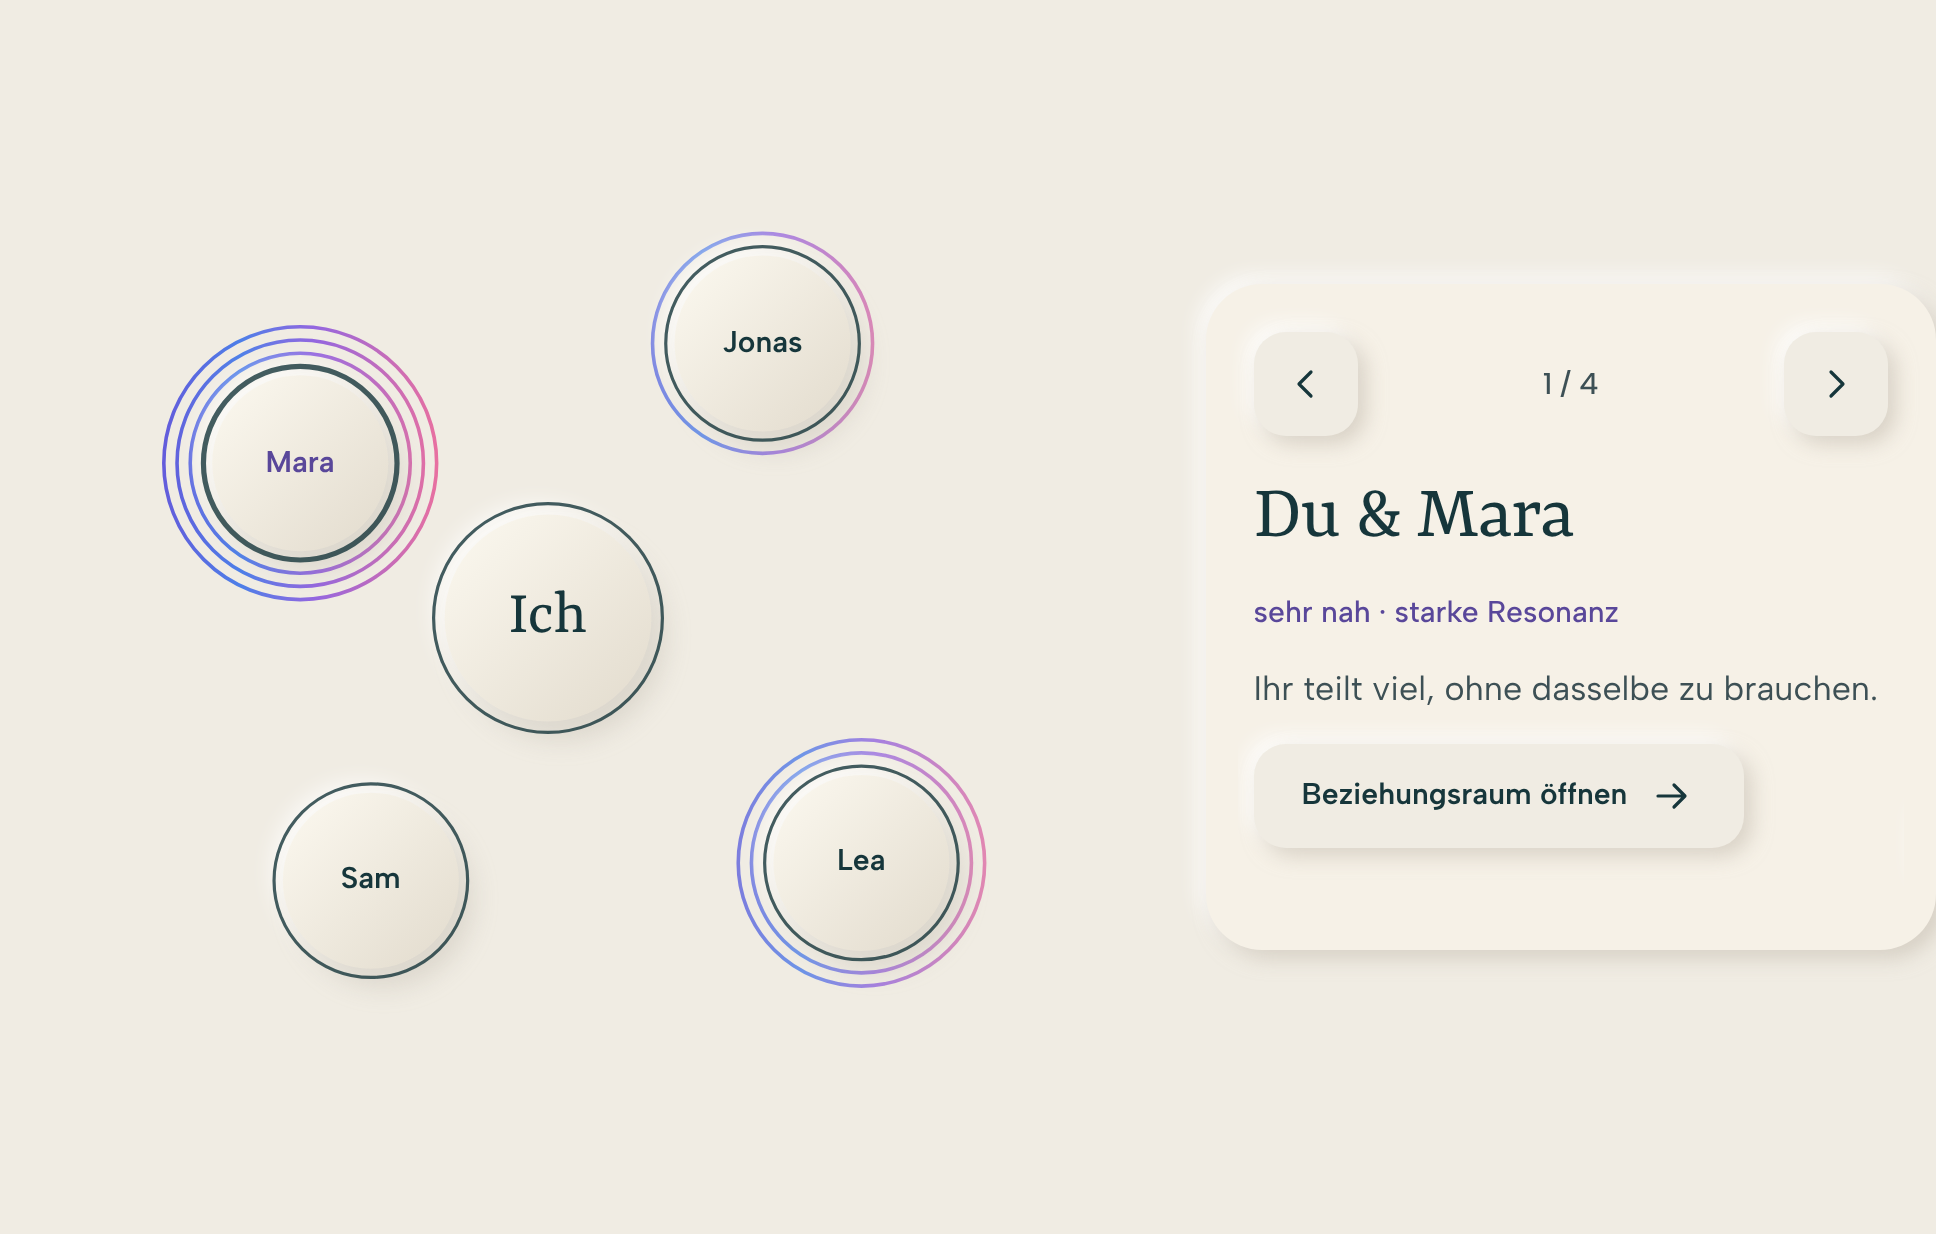
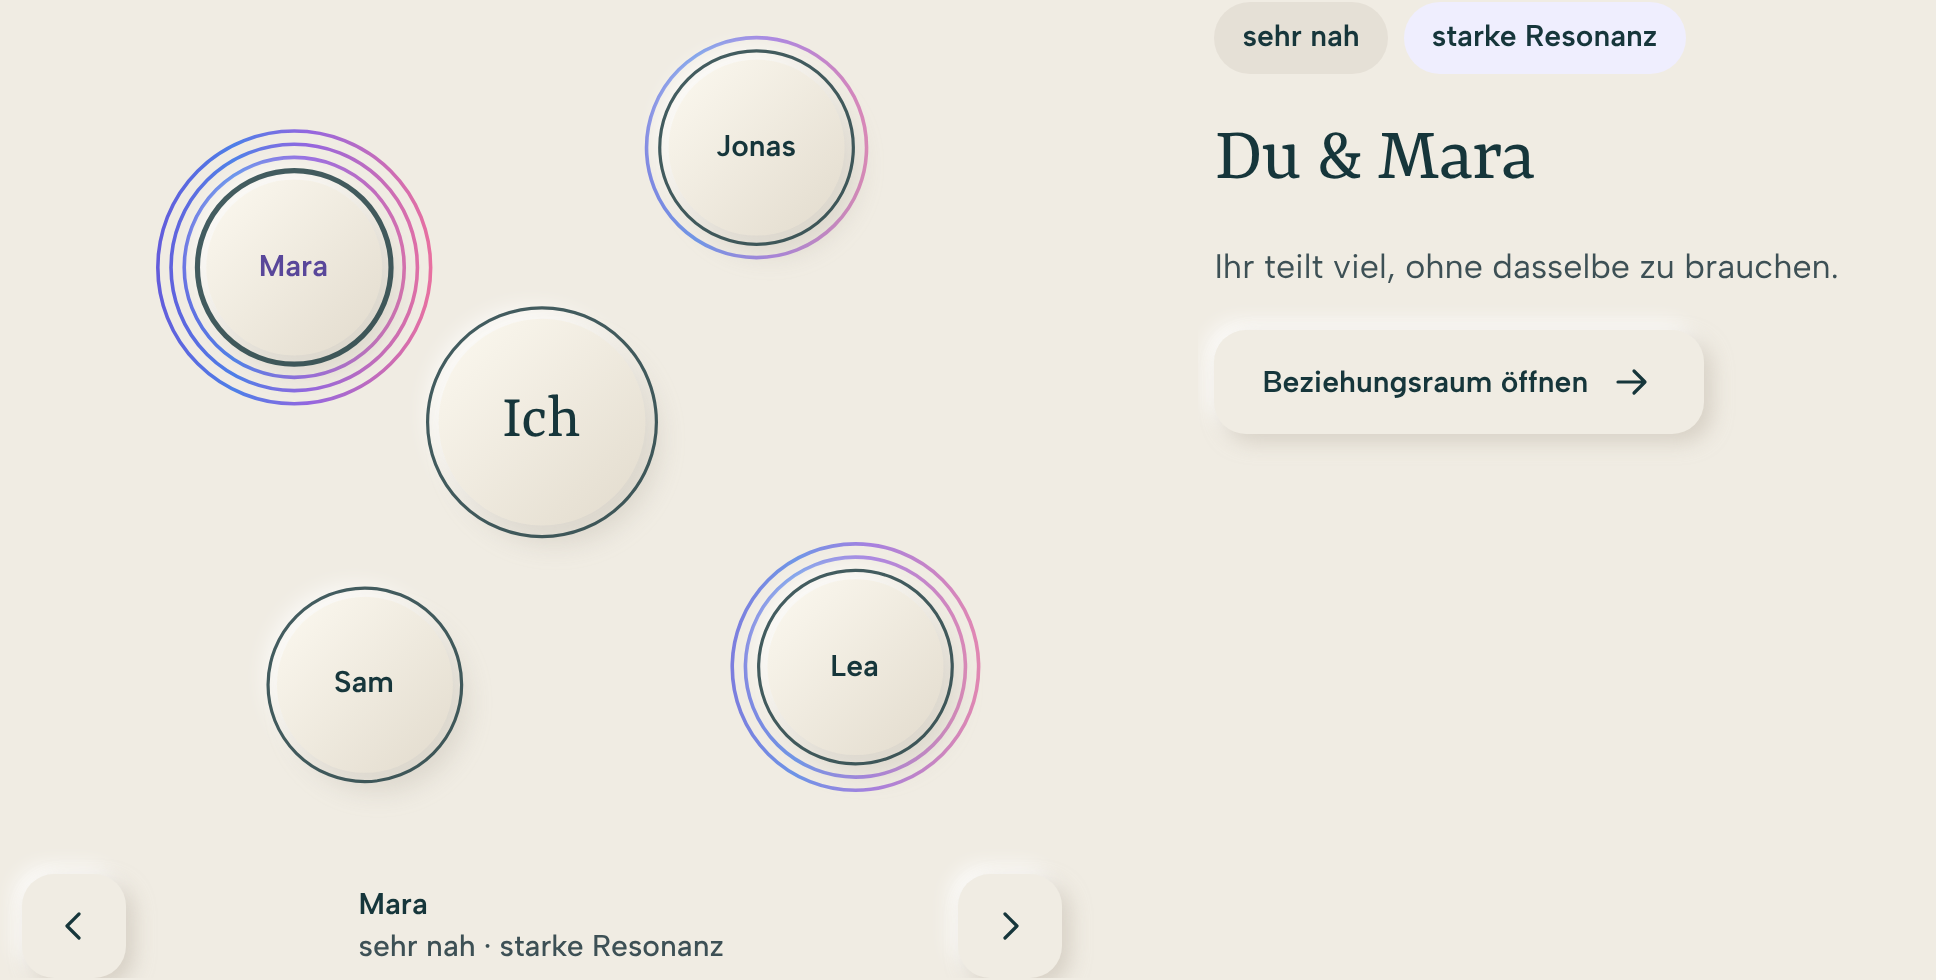
Umfeld wie Ich: Pfeile mit Name unter dem Bild, Pillen, früher sichtbar
Die Karte entfällt. Navigationszeile und Lesebereich folgen dem
Resonanzrad, Nähe und Resonanz stehen als Pillen. Das Bild ist senkrecht
auf seinen Inhalt beschnitten, der Auftritt zeigt die Bedienung früher.
Entwurf, noch ohne neue Version.

Claude-Session: https://claude.ai/code/session_01GcUU3Qg4dj9oPnZ4iDHoTB

diff --git a/components/umfeld/umfeld.js b/components/umfeld/umfeld.js
@@ -5,9 +5,14 @@
    die Resonanz (wie im Beziehungsraum), keine Linie führt zur Mitte. Ohne
    aktive Resonanz bleibt nur der Abstand. Der Freiraum fehlt, das Umfeld
    kennt den Wert nicht.
-   Bedienung wie beim Resonanzrad: Die Kreise im Bild sind Knöpfe. Eine Karte
-   zeigt den gewählten Menschen, mit Pfeilen und zum Ziehen (Finger oder Maus),
-   Kreis und Karte bleiben im Gleichschritt. Eine Liste gibt es nicht.
+   Aufbau und Bedienung wie beim Resonanzrad (Screen „Ich“): Bild, darunter
+   eine Zeile mit Pfeilen und dem gewählten Menschen, darunter der Lesebereich
+   ohne Karte. Dort stehen Nähe und Resonanz als Pillen, die Überschrift, die
+   Notiz und der Knopf. Die Kreise im Bild sind Knöpfe, der Lesebereich lässt
+   sich ziehen (Finger oder Maus), Kreis, Zeile und Lesebereich bleiben im
+   Gleichschritt. Eine Liste gibt es nicht.
+   Das Bild ist senkrecht auf seinen Inhalt beschnitten (Rand 16 Einheiten),
+   damit Zeile und Lesebereich früh im Sichtfeld stehen.
 
    Mobile-first: Unter 560 px Breite gilt ein Hochformat mit grösseren
    Kreisen, damit Namen in echten 15 px in ihren Kreis passen. Wird das
@@ -30,11 +35,9 @@
     { name: 'Lea', angle: 128, proximity: 24, resonance: 64, note: 'Weit weg im Alltag, trotzdem spürbar verbunden.' },
     { name: 'Sam', angle: 214, proximity: 70, resonance: 0, note: 'Oft nah, im Moment ohne aktive Resonanz.' }
   ];
-  function words(p) {
-    var near = p.proximity < 34 ? 'weit' : p.proximity < 75 ? 'nah' : 'sehr nah';
-    var res = p.resonance === 0 ? 'keine Resonanz' : p.resonance < 40 ? 'leise Resonanz' : p.resonance < 80 ? 'spürbare Resonanz' : 'starke Resonanz';
-    return near + ' · ' + res;
-  }
+  function near(p) { return p.proximity < 34 ? 'weit' : p.proximity < 75 ? 'nah' : 'sehr nah'; }
+  function res(p) { return p.resonance === 0 ? 'keine Resonanz' : p.resonance < 40 ? 'leise Resonanz' : p.resonance < 80 ? 'spürbare Resonanz' : 'starke Resonanz'; }
+  function words(p) { return near(p) + ' · ' + res(p); }
   function el(name, attrs) { var n = document.createElementNS(NS, name); for (var k in attrs) n.setAttribute(k, attrs[k]); return n; }
 
   var count = 0;
@@ -44,18 +47,20 @@
     root.classList.add('umfeld');
     var ARROW_PREV = '<svg class="icon" viewBox="0 0 24 24" aria-hidden="true"><path d="M14.5 6l-6 6 6 6"/></svg>';
     var ARROW_NEXT = '<svg class="icon" viewBox="0 0 24 24" aria-hidden="true"><path d="M9.5 6l6 6-6 6"/></svg>';
-    root.innerHTML = '<div class="umfeld__stage"></div>' +
-      '<div class="umfeld__card" role="group" aria-roledescription="Karussell" aria-label="Menschen in deinem Umfeld">' +
+    root.innerHTML = '<div class="umfeld__stage">' +
+        '<div class="umfeld__scene"></div>' +
         '<div class="umfeld__nav">' +
           '<button class="button button--secondary button--icon glow-edge" type="button" data-nav="prev" aria-label="Vorheriger Mensch">' + ARROW_PREV + '</button>' +
-          '<p class="umfeld__count" aria-hidden="true"></p>' +
+          '<p class="umfeld__current" aria-hidden="true"></p>' +
           '<button class="button button--secondary button--icon glow-edge" type="button" data-nav="next" aria-label="Nächster Mensch">' + ARROW_NEXT + '</button>' +
         '</div>' +
+      '</div>' +
+      '<div class="umfeld__reader" role="group" aria-roledescription="Karussell" aria-label="Menschen in deinem Umfeld">' +
         '<div class="umfeld__slides"></div>' +
         '<p class="umfeld__live" aria-live="polite"></p>' +
       '</div>';
-    var stage = root.querySelector('.umfeld__stage'), card = root.querySelector('.umfeld__card'), slider = root.querySelector('.umfeld__slides');
-    var count_ = root.querySelector('.umfeld__count'), live = root.querySelector('.umfeld__live');
+    var stage = root.querySelector('.umfeld__scene'), slider = root.querySelector('.umfeld__slides');
+    var current = root.querySelector('.umfeld__current'), live = root.querySelector('.umfeld__live');
     var selected = 0, layoutName = '', api = { parts: {} };
     var calm = function () { return window.matchMedia && matchMedia('(prefers-reduced-motion: reduce)').matches; };
 
@@ -63,18 +68,20 @@
       var href = link + '?person=' + encodeURIComponent(p.name) + '&proximity=' + p.proximity + '&resonance=' + p.resonance;
       var s = document.createElement('div');
       s.className = 'umfeld__slide'; s.setAttribute('role', 'group'); s.setAttribute('aria-roledescription', 'Folie');
-      s.innerHTML = '<' + heading + ' class="t-title">Du &amp; ' + p.name + '</' + heading + '>' +
-        '<p class="umfeld__state t-label">' + words(p) + '</p><p class="secondary">' + p.note + '</p>' +
+      s.innerHTML = '<div class="umfeld__pills"><span class="element-chip umfeld__pill">' + near(p) + '</span>' +
+        '<span class="element-chip area umfeld__pill">' + res(p) + '</span></div>' +
+        '<' + heading + ' class="umfeld__title t-title">Du &amp; ' + p.name + '</' + heading + '>' +
+        '<p class="secondary">' + p.note + '</p>' +
         '<a class="button button--secondary glow-edge" href="' + href + '">Beziehungsraum öffnen <svg class="icon" viewBox="0 0 24 24" aria-hidden="true"><path d="M5 12h13M13 6.5l5.5 5.5-5.5 5.5"/></svg></a>';
       slider.appendChild(s);
       return s;
     });
     slides.forEach(function (s, i) { s.setAttribute('aria-label', (i + 1) + ' von ' + PEOPLE.length); });
-    card.querySelectorAll('[data-nav]').forEach(function (b) {
+    root.querySelectorAll('[data-nav]').forEach(function (b) {
       b.addEventListener('click', function () { select(selected + (b.getAttribute('data-nav') === 'next' ? 1 : -1)); });
     });
 
-    /* Abstand von Slide zu Slide (Breite eines Slides, ohne Kartenrand). */
+    /* Abstand von Slide zu Slide (Breite eines Slides). */
     function pitch() { return slides[0].offsetWidth || slider.clientWidth; }
     function slideTo(i, smooth) {
       var left = i * pitch();
@@ -125,7 +132,17 @@
     function draw(name) {
       var L = LAYOUTS[name];
       layoutName = name;
-      stage.innerHTML = '<svg class="umfeld__svg" viewBox="0 0 ' + L.W + ' ' + L.H + '" aria-hidden="true"><defs></defs></svg>';
+      /* Lage aller Menschen zuerst: daraus wird das Bild senkrecht auf den Inhalt beschnitten. */
+      var geo = PEOPLE.map(function (p) {
+        var dist = L.base + (100 - p.proximity) * L.k, a = p.angle * Math.PI / 180;
+        var level = p.resonance === 0 ? 0 : p.resonance < 40 ? 1 : p.resonance < 80 ? 2 : 3;
+        return { dist: dist, level: level, x: L.CX + dist * Math.sin(a), y: L.CY - dist * Math.cos(a) };
+      });
+      var minY = L.CY - L.ME, maxY = L.CY + L.ME;
+      geo.forEach(function (g) { var r = L.R + L.ring * g.level; minY = Math.min(minY, g.y - r); maxY = Math.max(maxY, g.y + r); });
+      var vbY = Math.floor(minY - 16), vbH = Math.ceil(maxY + 16) - vbY;
+      var fy = function (y) { return (y - vbY) / vbH * 100; };
+      stage.innerHTML = '<svg class="umfeld__svg" viewBox="0 ' + vbY + ' ' + L.W + ' ' + vbH + '" aria-hidden="true"><defs></defs></svg>';
       stage.dataset.layout = name;
       var svg = stage.firstChild, defs = svg.firstChild;
       var relief = el('linearGradient', { id: uid + '-relief', x1: '0%', y1: '0%', x2: '100%', y2: '100%' });
@@ -139,15 +156,15 @@
       /* Name im Bild („Ich“, ruht): eingemittet über `translate`. */
       var label = function (text, x, y, cls) {
         var s = document.createElement('span'); s.className = 'umfeld__name' + (cls ? ' ' + cls : ''); s.textContent = text;
-        s.style.left = x / L.W * 100 + '%'; s.style.top = y / L.H * 100 + '%'; stage.appendChild(s); return s;
+        s.style.left = x / L.W * 100 + '%'; s.style.top = fy(y) + '%'; stage.appendChild(s); return s;
       };
       /* Mensch: Knopf über dem ganzen Kreis. Er sitzt über left/top und Grösse genau auf dem Kreis, ohne Verschiebung:
          GSAP schreibt `translate` beim ersten Tween in `transform` um und verlöre die Einmittung. */
       var pick = function (p, i, x, y) {
         var b = document.createElement('button'); b.type = 'button'; b.className = 'umfeld__name umfeld__pick'; b.textContent = p.name;
         b.setAttribute('aria-pressed', 'false'); b.setAttribute('aria-label', p.name + ', ' + words(p));
-        b.style.left = (x - L.R) / L.W * 100 + '%'; b.style.top = (y - L.R) / L.H * 100 + '%';
-        b.style.width = 2 * L.R / L.W * 100 + '%'; b.style.height = 2 * L.R / L.H * 100 + '%';
+        b.style.left = (x - L.R) / L.W * 100 + '%'; b.style.top = fy(y - L.R) + '%';
+        b.style.width = 2 * L.R / L.W * 100 + '%'; b.style.height = 2 * L.R / vbH * 100 + '%';
         b.addEventListener('click', function () { select(i); });
         b.addEventListener('keydown', function (e) {
           var at = PEOPLE.indexOf(p), d = e.key === 'ArrowRight' || e.key === 'ArrowDown' ? 1 : e.key === 'ArrowLeft' || e.key === 'ArrowUp' ? -1 : 0;
@@ -160,10 +177,8 @@
       label('Ich', L.CX, L.CY, 'umfeld__name--me');
 
       var people = PEOPLE.map(function (p, i) {
-        var dist = L.base + (100 - p.proximity) * L.k;
-        var a = p.angle * Math.PI / 180, x = L.CX + dist * Math.sin(a), y = L.CY - dist * Math.cos(a);
+        var g = geo[i], dist = g.dist, x = g.x, y = g.y, level = g.level;
         var ux = (x - L.CX) / dist, uy = (y - L.CY) / dist;
-        var level = p.resonance === 0 ? 0 : p.resonance < 40 ? 1 : p.resonance < 80 ? 2 : 3;
         var stroke = null, ringList = [];
         if (level) {
           stroke = el('linearGradient', { id: uid + '-g' + i, gradientUnits: 'userSpaceOnUse', x1: x - (L.R + 24), y1: y, x2: x + (L.R + 24), y2: y });
@@ -181,7 +196,7 @@
         return { person: p, rings: ringList, disc: disc, contour: contour, name: pick(p, i, x, y),
           from: { x: L.CX + ux * L.edge, y: L.CY + uy * L.edge }, at: { x: x, y: y }, width: L.W };
       });
-      api.parts = { svg: svg, me: me, people: people, width: L.W };
+      api.parts = { svg: svg, me: me, people: people, width: L.W, top: vbY, height: vbH };
       mark();
     }
 
@@ -204,7 +219,7 @@
         if (on) { s.removeAttribute('inert'); s.removeAttribute('aria-hidden'); } else { s.setAttribute('inert', ''); s.setAttribute('aria-hidden', 'true'); }
         s.querySelector('a').tabIndex = on ? 0 : -1;
       });
-      count_.textContent = (i + 1) + ' / ' + PEOPLE.length;
+      current.innerHTML = '<span><strong>' + p.name + '</strong><span>' + words(p) + '</span></span>';
       if (!first) live.textContent = 'Du & ' + p.name + ', ' + words(p);
       if (!fromScroll) slideTo(i, !first);
     }

diff --git a/components/umfeld/umfeld.css b/components/umfeld/umfeld.css
@@ -1,8 +1,10 @@
 /* ============================================================
    ELANUM Umfeld · Darstellung
    ============================================================ */
-.umfeld{display:grid;gap:clamp(32px,5vw,64px);align-items:center}
-.umfeld__stage{position:relative;width:min(100%,640px);margin:0 auto}
+/* Aufbau und Masse wie .rad (Resonanzrad): Bühne mit Bild und Zeile, daneben oder darunter der Lesebereich */
+.umfeld{display:grid;gap:clamp(40px,6vw,72px);align-items:start}
+.umfeld__stage{display:grid;gap:24px;justify-items:center}
+.umfeld__scene{position:relative;width:min(100%,640px)}
 .umfeld__svg{width:100%;height:auto;overflow:visible}
 .umfeld__contour{fill:none;stroke:var(--ink);stroke-width:var(--trace);stroke-linecap:round;vector-effect:non-scaling-stroke;transition:stroke-width var(--motion-ui) ease}
 .umfeld__contour.is-active{stroke-width:2.6}
@@ -14,18 +16,26 @@
 .umfeld__name--me{font:var(--type-title);font-size:32px;line-height:1}
 .umfeld__name.is-active{color:var(--sterne-tief)}
 
-.umfeld__card{position:relative;display:grid;gap:20px;min-width:0;padding:24px;border-radius:var(--radius-surface);background:var(--paper);box-shadow:var(--raised-sm)}
-.umfeld__nav{display:flex;align-items:center;justify-content:space-between;gap:16px}
-.umfeld__count{font:var(--type-label);color:var(--ink-2);font-variant-numeric:tabular-nums}
+/* Zeile wie .rad__nav und .rad__current */
+.umfeld__nav{display:flex;align-items:center;justify-content:space-between;gap:16px;width:min(100%,520px)}
+.umfeld__current{display:flex;align-items:center;justify-content:center;gap:12px;min-width:0;text-align:left}
+.umfeld__current strong{display:block;font:var(--type-label);font-weight:600}
+.umfeld__current span span{display:block;font:var(--type-label);color:var(--ink-2)}
+/* Lesebereich wie .rad__reader, ohne Karte */
+.umfeld__reader{position:relative;min-width:0;max-width:var(--measure)}
 .umfeld__slides{position:relative;display:flex;overflow-x:auto;overscroll-behavior-x:contain;scroll-snap-type:x mandatory;scrollbar-width:none;margin:-8px}
 .umfeld__slides::-webkit-scrollbar{display:none}
-.umfeld__slide{flex:0 0 100%;box-sizing:border-box;min-width:0;padding:8px;scroll-snap-align:start;scroll-snap-stop:always;display:grid;gap:14px;justify-items:start;align-content:start}
+.umfeld__slide{flex:0 0 100%;box-sizing:border-box;min-width:0;padding:8px;scroll-snap-align:start;scroll-snap-stop:always;display:grid;gap:18px;justify-items:start;align-content:start}
+.umfeld__title{margin-top:4px}
+.umfeld__pills{display:flex;flex-wrap:wrap;gap:8px}
+/* Pillen: .element-chip ohne Icon. Nähe neutral, Resonanz im Hauch von Sterne wie der gewählte Name im Bild. */
+.umfeld__pill{padding:4px 14px;--tint:var(--offen)}
+.umfeld__pill.area{--tint:var(--sterne-hauch)}
 .umfeld__slides.is-dragging{scroll-snap-type:none;scroll-behavior:auto;user-select:none}
 @media(hover:hover) and (pointer:fine){.umfeld__slides{cursor:grab}.umfeld__slides.is-dragging{cursor:grabbing}}
 .umfeld__live{position:absolute;width:1px;height:1px;overflow:hidden;clip-path:inset(50%);white-space:nowrap}
-.umfeld__state{color:var(--sterne-tief)}
 /* Hochformat für schmale Schirme: Namen in echten 15 px, passend in ihren Kreis */
-.umfeld__stage[data-layout=tall]{width:min(100%,440px)}
-.umfeld__stage[data-layout=tall] .umfeld__name{font:var(--type-label);font-weight:600}
-.umfeld__stage[data-layout=tall] .umfeld__name--me{font:var(--type-title);font-size:32px;line-height:1}
-@media(min-width:900px){.umfeld{grid-template-columns:minmax(0,1.2fr) minmax(0,.8fr)}}
+.umfeld__scene[data-layout=tall]{width:min(100%,440px)}
+.umfeld__scene[data-layout=tall] .umfeld__name{font:var(--type-label);font-weight:600}
+.umfeld__scene[data-layout=tall] .umfeld__name--me{font:var(--type-title);font-size:32px;line-height:1}
+@media(min-width:900px){.umfeld{grid-template-columns:minmax(0,1.2fr) minmax(0,.8fr);column-gap:clamp(48px,6vw,96px)}}

diff --git a/assets/motion.js b/assets/motion.js
@@ -239,11 +239,11 @@
   function umfeld() {
     all('[data-anim="umfeld"]').forEach(function (el) {
       var api = el._umfeld; if (!api) return;
-      var stage = el.querySelector('.umfeld__stage');
+      var stage = el.querySelector('.umfeld__scene');
       /* Bis die Szene sichtbar wird, bleibt sie verborgen, statt kurz voll dazustehen
          und dann für den Auftritt wieder zu verschwinden. */
-      var card = el.querySelector('.umfeld__card');
-      var veiled = [stage, card].filter(Boolean);
+      var nav = el.querySelector('.umfeld__nav'), reader = el.querySelector('.umfeld__reader');
+      var veiled = [stage, nav, reader].filter(Boolean);
       hideUntilVisible(veiled);
       finishers.push(function () { gsap.set(veiled, { clearProps: 'opacity' }); });
       whenVisible(stage, function () {
@@ -262,7 +262,9 @@
         });
         /* Die Linien um die Person blenden sanft ein, wo vorher die Verbindung gezeichnet wurde. */
         people.forEach(function (p, i) { if (p.rings.length) tl.from(p.rings, { opacity: 0, duration: 0.9, ease: M.ease.reveal, stagger: 0.15, clearProps: 'opacity' }, 1.4 + i * 0.15); });
-        if (card) tl.from(card, { opacity: 0, y: M.y, duration: 0.6, clearProps: CLEAR }, 1.4);
+        /* Zeile und Lesebereich früh: die Bedienung steht da, bevor die Kreise ankommen. */
+        if (nav) tl.from(nav, { opacity: 0, y: M.y, duration: 0.6, clearProps: CLEAR }, 0.4);
+        if (reader) tl.from(reader, { opacity: 0, y: M.y, duration: 0.6, clearProps: CLEAR }, 0.6);
       }, 0.3);
     });
   }

diff --git a/DESIGN-NOTES.md b/DESIGN-NOTES.md
@@ -245,7 +245,7 @@ Im Zentrum steht das Resonanzrad mit neun Elementen: den Grundlagen, aus denen R
 - Der Ring zeigt die drei Bereiche gleich stark und hebt nichts hervor. Icons, Konturen und Auswahlbogen sind Ink.
 - Seit 4.11.1 steht das Rad still: Ein Tipp wählt das Stück an seinem Platz, nichts dreht und nichts lässt sich ziehen. In der App wählen Rad und Pfeile nur, «Lesen» und die Liste öffnen das Element als Fenster (Telefon von unten, Computer Mitte); dieser Aufbau ist im Baustein noch nicht nachgebaut.
 
-**Umfeld** (`components/umfeld/`): Ich in der Mitte, Menschen als eigene, geschlossene Kreise. Der Abstand zeigt die Nähe. Null bis drei Linien im Verlauf um die Person zeigen die Resonanz, wie im Beziehungsraum; ohne aktive Resonanz gibt es keine Linie. Keine Linie führt zur Mitte, und einen Freiraum gibt es nicht, weil das Umfeld den Wert nicht kennt. Die Kreise sind Knöpfe: Ein Klick auf Kreis oder Name wählt den Menschen. Eine Karte zeigt ihn, mit Pfeilen und Zähler wie beim Resonanzrad und zum Ziehen (Finger oder Maus), Kreis und Karte bleiben im Gleichschritt. Die Liste entfällt (Rückmeldung Chris vom 15.11.2026, Bedienung wie beim Resonanzrad). Die Karte öffnet den Beziehungsraum mit den Werten des Menschen. So trägt das Umfeld mehr als eine einzelne Beziehung. Unter 560 px Breite gilt ein Hochformat mit grösseren Kreisen, damit die Namen in echten 15 px hineinpassen. Entwurf vom 15.11.2026, die Version ist noch nicht freigegeben.
+**Umfeld** (`components/umfeld/`): Ich in der Mitte, Menschen als eigene, geschlossene Kreise. Der Abstand zeigt die Nähe. Null bis drei Linien im Verlauf um die Person zeigen die Resonanz, wie im Beziehungsraum; ohne aktive Resonanz gibt es keine Linie. Keine Linie führt zur Mitte, und einen Freiraum gibt es nicht, weil das Umfeld den Wert nicht kennt. Die Kreise sind Knöpfe: Ein Klick auf Kreis oder Name wählt den Menschen. Aufbau wie beim Resonanzrad im Screen „Ich“: Bild, darunter eine Zeile mit Pfeilen und dem gewählten Menschen (Name, darunter Nähe und Resonanz), darunter der Lesebereich ohne Karte, zum Ziehen mit Finger oder Maus. Dort stehen Nähe und Resonanz als Pillen, dann „Du & Name“, die Notiz und der Knopf. Kreis, Zeile und Lesebereich bleiben im Gleichschritt. Die Liste entfällt, und die Karte mit Zähler ebenso (Rückmeldung Chris vom 15.11.2026: Design wie Ich-Übersicht, gleiche Pfeile, Pillen, mehr Raum und früher sichtbar). Das Bild ist senkrecht auf den Inhalt beschnitten, damit Zeile und Lesebereich früh im Sichtfeld stehen, und im Auftritt erscheinen sie schon nach 0,4 und 0,6 Sekunden. Der Lesebereich öffnet den Beziehungsraum mit den Werten des Menschen. So trägt das Umfeld mehr als eine einzelne Beziehung. Unter 560 px Breite gilt ein Hochformat mit grösseren Kreisen, damit die Namen in echten 15 px hineinpassen. Entwurf vom 15.11.2026, die Version ist noch nicht freigegeben.
 
 **Beziehungsraum** (`components/beziehungsraum/`), neue Darstellung vom 15.11.2026 (Entwurf, PR 24). Der Baustein wird in der App ohne Regler gezeigt, darum muss das Bild allein lesbar sein. Jeder Wert hat ein eigenes Zeichen:
 - SVG-Raum 720 × 400, Mitte y = 170. Die Person ist ein Kreis mit Radius 50, immer gleich gross.

diff --git a/README.md b/README.md
@@ -199,7 +199,7 @@ Jeder Baustein ist ein klassisches Skript und legt ein Objekt auf `window`. Mit 
 **Umfeld** · `components/umfeld/`, dazu `beziehungsraum.css` · `window.ElanumUmfeld`
 
 - `mount(root, { link, heading })` zeichnet Ich und die Menschen darum und gibt `{ select(i), parts }` zurück. `link` führt zum Beziehungsraum, ergänzt um `?person=…&proximity=…&resonance=…`.
-- Bedienung: Die Kreise im Bild sind Knöpfe (Pfeiltasten wechseln den Menschen). Eine Karte `.umfeld__card` zeigt den gewählten Menschen, mit Pfeilen und Zähler wie beim Resonanzrad und zum Ziehen mit Finger oder Maus. Eine Liste gibt es nicht mehr.
+- Bedienung: Die Kreise im Bild sind Knöpfe (Pfeiltasten wechseln den Menschen). Aufbau wie beim Resonanzrad: das Bild, darunter `.umfeld__nav` mit Pfeilen und dem gewählten Menschen, darunter der Lesebereich `.umfeld__reader` ohne Karte (Pillen für Nähe und Resonanz, Überschrift, Notiz, Knopf), zum Ziehen mit Finger oder Maus. Das Bild ist senkrecht auf den Inhalt beschnitten. Eine Liste gibt es nicht. Grund: Rückmeldung Chris vom 15.11.2026, Design wie die Ich-Übersicht.
 - `people`: die Menschen der Vorschau.
 
 ```html
